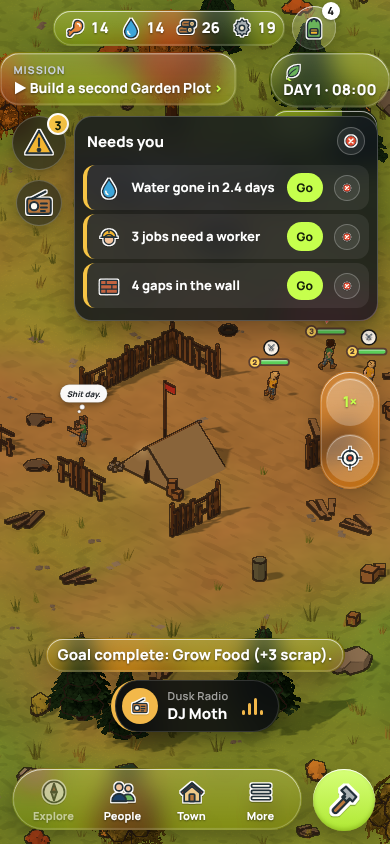
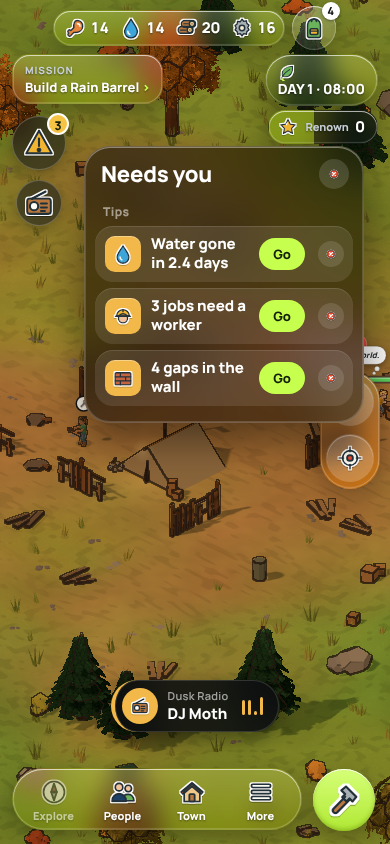
3D.354: phone look, Needs you like the phone's notifications (W270)
Claude-Session: https://claude.ai/code/session_017WFo2g4zbX7WQERKjB1fXN

diff --git a/tools/qa/needs_phone_check.js b/tools/qa/needs_phone_check.js
@@ -1,0 +1,27 @@
+// tools/qa/needs_phone_check.js [tag] — UI chat, 3D.354 (W270, owner: "the warning menu should match the style we are going for with the iphone
+// menu"). In the phone look Needs you is a frosted glass sheet (blur, see-through tint) with a large title, small grey group titles Now and Tips,
+// notification rows 44 px+ inside the screen with a coloured square sign; Go, a row's ✕ and the close still work; the old list with the look off.
+const Q = require('./lib'); const path = require('path'); const out = path.join(__dirname, '../../runs/ui_samples'); const TAG = process.argv[2] || ''; let bad = 0; const ok = (c, m) => { if (!c) { bad++; console.log('  FAIL ' + m); } };
+(async () => { const b = await Q.launch();
+  for (const [n, w, h] of [['phone', 390, 844], ['phoneN', 320, 568], ['phoneL', 430, 932]]) { console.log(n);
+    const p = await Q.page(b, { w, h, look: '', expose: 'alertHub,note,OPTS,Wd,pushUnitsOut' }); await Q.newGame(p);
+    for (let i = 0; i < 6; i++) { await p.evaluate(() => { const x = [...document.querySelectorAll('#eventModal button')].find((b) => /no more tips/i.test(b.textContent)); if (x) x.click(); }); await Q.clearCards(p); await p.waitForTimeout(500); }
+    if (TAG) ok(await p.evaluate(() => ZH.BUILD_TAG) === TAG, 'build tag is ' + TAG);
+    await p.evaluate(() => { const W = ZH.world, S = ZH.S; S.stage = 3; ZH.OPTS.advisor = true; S.advMute = {};
+      for (const t of ['farm', 'barrel']) { const D = ZH.Wd.DEFS[t], B = ZH.Wd.BUILD; outer: for (let y = B.y0; y <= B.y1; y++) for (let x = B.x0; x <= B.x1; x++) if (ZH.Wd.placementCheck(W, x, y, D, null).ok) { const b = { type: t, x, y, w: D.w, h: D.h, q: D.q, a: D.a, staff: null }; W.buildings.push(b); ZH.Wd.bump(W); ZH.pushUnitsOut(b); break outer; } }
+      for (const b of W.buildings) if (ZH.Wd.DEFS[b.type].slot) b.staff = null; for (const q of S.sv) { q.post = null; q.job = 'Guard'; }
+      ZH.note('critical', 'Fire at the Lodge', { key: 'testfire', icon: '🔥', live: () => true, at: () => S.sv[0].w }); });
+    await p.waitForTimeout(1500); await Q.clearCards(p); await p.evaluate(() => { const a = document.getElementById('alertBtn'); if (a && !document.getElementById('alertPop')) a.click(); }); await p.waitForTimeout(700);
+    const m = await p.evaluate(() => { const pop = document.getElementById('alertPop'), cs = getComputedStyle(pop), r = (e) => e.getBoundingClientRect(); return { note: pop.classList.contains('phNote'), blur: cs.backdropFilter || cs.webkitBackdropFilter || '', bg: cs.backgroundColor, title: parseFloat(getComputedStyle(pop.querySelector('.apH b')).fontSize), secs: [...pop.querySelectorAll('.apS')].map((e) => e.textContent),
+      rows: [...pop.querySelectorAll('.apRow')].map((e) => { const q = r(e), i = r(e.querySelector('.apI')); return { t: e.querySelector('.apT').textContent, h: q.height, l: q.left, r: q.right, sign: getComputedStyle(e.querySelector('.apI')).backgroundColor, iw: i.width }; }), W: innerWidth, H: innerHeight, pr: r(pop) }; });
+    console.log('  ', JSON.stringify(m.rows.map((x) => x.t)));
+    ok(m.note && /blur/.test(m.blur), 'a frosted glass sheet'); { const a = (m.bg.match(/[\d.]+/g) || []).map(Number); ok(a.length === 4 && a[3] <= .7, 'see-through tint (' + m.bg + ')'); }
+    ok(m.title >= 20, 'a large title'); ok(m.secs[0] === 'Now' && m.secs.includes('Tips'), 'group titles Now and Tips (' + m.secs + ')');
+    ok(m.rows.length >= 2 && m.rows.every((x) => x.h >= 44 && x.l >= 0 && x.r <= m.W && x.iw >= 30 && !/rgba\(0, 0, 0, 0\)/.test(x.sign)), 'rows 44 px+, on the screen, each with a coloured square sign'); ok(m.pr.bottom <= m.H, 'the sheet is on the screen');
+    await p.screenshot({ path: path.join(out, `needs_phone_${n}.png`) });
+    await p.evaluate(() => { const r = [...document.querySelectorAll('#alertPop .apRow')].find((x) => /jobs need a worker|: no worker/.test(x.textContent)); if (r && r.querySelector('.apM')) r.querySelector('.apM').click(); }); await p.waitForTimeout(500);
+    ok(await p.evaluate(() => !/worker/.test((document.getElementById('alertPop') || {}).textContent || '')), "a row's ✕ hides it");
+    await p.evaluate(() => document.querySelector('#alertPop .apX').click()); await p.waitForTimeout(400); ok(await p.evaluate(() => !document.getElementById('alertPop')), 'the close shuts it');
+    if (n === 'phone') { await p.evaluate(() => { ZH.OPTS.look = 'glass'; document.documentElement.classList.remove('phone'); document.getElementById('alertBtn').click(); }); await p.waitForTimeout(500); ok(await p.evaluate(() => { const q = document.getElementById('alertPop'); return !!q && !q.classList.contains('phNote') && !q.querySelector('.apS'); }), 'look off: the old list'); }
+    ok(!(p.errs || []).length, 'no page errors ' + JSON.stringify(p.errs || [])); await p.close(); }
+  await b.close(); console.log(bad ? `FAILED (${bad})` : 'PASS'); process.exit(bad ? 1 : 0); })();

diff --git a/js/game.js b/js/game.js
@@ -3,7 +3,7 @@
 'use strict';
 const Iso = window.ZHIso, Wd = window.ZHWorld;
 const SFX = (n) => { if (window.SND) SND.play(n); };   /* V2.21 sound (js/sound.js) */
-const VERSION = '2.57.0', BUILD_TAG = '3D.353', PREV_KEY = 'zombieHavenV25', OLD_KEY = 'zombieHavenV2';
+const VERSION = '2.57.0', BUILD_TAG = '3D.354', PREV_KEY = 'zombieHavenV25', OLD_KEY = 'zombieHavenV2';
 /* V2.40 save slots: slot 1 keeps the old key, so existing towns carry over */
 const SLOT_KEYS = ['zombieHavenR1', 'zombieHavenR1_s2', 'zombieHavenR1_s3']   /* V3D.22 resources: fresh saves (old towns are not converted) */, QS = new URLSearchParams(location.search);
 let SLOT = 1; try { SLOT = Math.min(3, Math.max(1, +localStorage.getItem('zhSlot') || 1)); } catch (e) { /* storage blocked */ }
@@ -1447,7 +1447,14 @@ function alertHub() {
   if (!pop) { pop = document.createElement('div'); pop.id = 'alertPop'; pop.className = 'alertPop'; w.appendChild(pop); pop.onclick = (e) => e.stopPropagation(); }
   pop.style.top = (parseInt(b.style.top) || 120) + 'px';
   const sig = L.map((q) => q.key + q.text + q.acts.map((c) => c.label + c.ok).join()).join('|'); if (pop.dataset.sig === sig) return; pop.dataset.sig = sig;
-  pop.innerHTML = `<div class="apH"><b>Needs you</b><button class="apX">${window.ZHIcons ? ZHIcons.svg('cross', 16) : '✕'}</button></div>` + L.map((q, i) => `<div class="apRow${q.urgent ? ' urg' : ''}" data-i="${i}"><span class="apI">${q.icon}</span><span class="apT">${esc(q.text)}</span>${q.acts.map((c, j) => `<button class="apA" data-j="${j}"${c.ok ? '' : ' disabled'}>${esc(c.label)}</button>`).join('')}${q.mute || q.muteAll ? `<button class="apM" title="Hide until tomorrow" aria-label="Hide until tomorrow"><span>${window.ZHIcons ? ZHIcons.svg('cross', 12) : '✕'}</span></button>` : ''}</div>`).join('');
+  /* 3D.354 (owner, 24 Nov, W270: "the warning menu should match the style we are going for with the iphone menu"): in the phone look Needs you is
+     a frosted glass sheet like the phone's notifications: a large title, a small grey close, small grey group titles (Now, Tips), and each row a
+     notification card with a coloured square sign, the short title, a lime Go and a small grey ✕. Same classes and handlers as before. */
+  const cx = window.ZHIcons ? ZHIcons.svg('cross', 12) : '✕', rowH = (q, i) => `<div class="apRow${q.urgent ? ' urg' : ''}" data-i="${i}"><span class="apI">${q.icon}</span><span class="apT">${esc(q.text)}</span>${q.acts.map((c, j) => `<button class="apA" data-j="${j}"${c.ok ? '' : ' disabled'}>${esc(c.label)}</button>`).join('')}${q.mute || q.muteAll ? `<button class="apM" title="Hide until tomorrow" aria-label="Hide until tomorrow"><span>${cx}</span></button>` : ''}</div>`;
+  if (phoneOn()) { const now = L.map((q, i) => [q, i]).filter(([q]) => q.urgent), tips = L.map((q, i) => [q, i]).filter(([q]) => !q.urgent);
+    pop.classList.add('phNote'); pop.innerHTML = `<div class="apH"><b>Needs you</b><button class="apX" aria-label="Close">${cx}</button></div>` + (now.length ? `<div class="apS">Now</div>` + now.map(([q, i]) => rowH(q, i)).join('') : '') + (tips.length ? `<div class="apS">Tips</div>` + tips.map(([q, i]) => rowH(q, i)).join('') : '');
+  } else { pop.classList.remove('phNote');
+  pop.innerHTML = `<div class="apH"><b>Needs you</b><button class="apX">${window.ZHIcons ? ZHIcons.svg('cross', 16) : '✕'}</button></div>` + L.map((q, i) => `<div class="apRow${q.urgent ? ' urg' : ''}" data-i="${i}"><span class="apI">${q.icon}</span><span class="apT">${esc(q.text)}</span>${q.acts.map((c, j) => `<button class="apA" data-j="${j}"${c.ok ? '' : ' disabled'}>${esc(c.label)}</button>`).join('')}${q.mute || q.muteAll ? `<button class="apM" title="Hide until tomorrow" aria-label="Hide until tomorrow"><span>${window.ZHIcons ? ZHIcons.svg('cross', 12) : '✕'}</span></button>` : ''}</div>`).join(''); }
   if (window.ZHIcons && ZHIcons.swap) try { ZHIcons.swap(pop); } catch (e) { /* emoji stay */ }
   pop.querySelector('.apX').onclick = () => { hubOpen = false; alertHub(); };
   pop.querySelectorAll('.apRow').forEach((r) => { const q = L[+r.dataset.i];

diff --git a/src/game/05-alerts.js b/src/game/05-alerts.js
@@ -120,7 +120,14 @@ function alertHub() {
   if (!pop) { pop = document.createElement('div'); pop.id = 'alertPop'; pop.className = 'alertPop'; w.appendChild(pop); pop.onclick = (e) => e.stopPropagation(); }
   pop.style.top = (parseInt(b.style.top) || 120) + 'px';
   const sig = L.map((q) => q.key + q.text + q.acts.map((c) => c.label + c.ok).join()).join('|'); if (pop.dataset.sig === sig) return; pop.dataset.sig = sig;
-  pop.innerHTML = `<div class="apH"><b>Needs you</b><button class="apX">${window.ZHIcons ? ZHIcons.svg('cross', 16) : '✕'}</button></div>` + L.map((q, i) => `<div class="apRow${q.urgent ? ' urg' : ''}" data-i="${i}"><span class="apI">${q.icon}</span><span class="apT">${esc(q.text)}</span>${q.acts.map((c, j) => `<button class="apA" data-j="${j}"${c.ok ? '' : ' disabled'}>${esc(c.label)}</button>`).join('')}${q.mute || q.muteAll ? `<button class="apM" title="Hide until tomorrow" aria-label="Hide until tomorrow"><span>${window.ZHIcons ? ZHIcons.svg('cross', 12) : '✕'}</span></button>` : ''}</div>`).join('');
+  /* 3D.354 (owner, 24 Nov, W270: "the warning menu should match the style we are going for with the iphone menu"): in the phone look Needs you is
+     a frosted glass sheet like the phone's notifications: a large title, a small grey close, small grey group titles (Now, Tips), and each row a
+     notification card with a coloured square sign, the short title, a lime Go and a small grey ✕. Same classes and handlers as before. */
+  const cx = window.ZHIcons ? ZHIcons.svg('cross', 12) : '✕', rowH = (q, i) => `<div class="apRow${q.urgent ? ' urg' : ''}" data-i="${i}"><span class="apI">${q.icon}</span><span class="apT">${esc(q.text)}</span>${q.acts.map((c, j) => `<button class="apA" data-j="${j}"${c.ok ? '' : ' disabled'}>${esc(c.label)}</button>`).join('')}${q.mute || q.muteAll ? `<button class="apM" title="Hide until tomorrow" aria-label="Hide until tomorrow"><span>${cx}</span></button>` : ''}</div>`;
+  if (phoneOn()) { const now = L.map((q, i) => [q, i]).filter(([q]) => q.urgent), tips = L.map((q, i) => [q, i]).filter(([q]) => !q.urgent);
+    pop.classList.add('phNote'); pop.innerHTML = `<div class="apH"><b>Needs you</b><button class="apX" aria-label="Close">${cx}</button></div>` + (now.length ? `<div class="apS">Now</div>` + now.map(([q, i]) => rowH(q, i)).join('') : '') + (tips.length ? `<div class="apS">Tips</div>` + tips.map(([q, i]) => rowH(q, i)).join('') : '');
+  } else { pop.classList.remove('phNote');
+  pop.innerHTML = `<div class="apH"><b>Needs you</b><button class="apX">${window.ZHIcons ? ZHIcons.svg('cross', 16) : '✕'}</button></div>` + L.map((q, i) => `<div class="apRow${q.urgent ? ' urg' : ''}" data-i="${i}"><span class="apI">${q.icon}</span><span class="apT">${esc(q.text)}</span>${q.acts.map((c, j) => `<button class="apA" data-j="${j}"${c.ok ? '' : ' disabled'}>${esc(c.label)}</button>`).join('')}${q.mute || q.muteAll ? `<button class="apM" title="Hide until tomorrow" aria-label="Hide until tomorrow"><span>${window.ZHIcons ? ZHIcons.svg('cross', 12) : '✕'}</span></button>` : ''}</div>`).join(''); }
   if (window.ZHIcons && ZHIcons.swap) try { ZHIcons.swap(pop); } catch (e) { /* emoji stay */ }
   pop.querySelector('.apX').onclick = () => { hubOpen = false; alertHub(); };
   pop.querySelectorAll('.apRow').forEach((r) => { const q = L[+r.dataset.i];

diff --git a/css/phone.css b/css/phone.css
@@ -167,3 +167,14 @@ html.phone .radioBtn.unread::after { content: ''; position: absolute; right: 3px
 html.phone #nBot .radioCard.rcLive { width: auto; max-width: 260px; align-self: center; margin: 0 auto; padding: 6px 16px 6px 7px; } html.phone #nBot .radioCard.rcLive .rcT { flex: 0 1 auto; padding-left: 0; } html.phone #nBot .radioCard.rcLive .rcT b { display: block; max-height: none; }
 html.phone .radioCard.rcLive.talk .rcT b::after { display: none; } html.phone .radioCard.rcLive .rcT small { margin-bottom: 0; color: rgba(255, 255, 255, .6); }
 html.phone #nBot .radioCard.rcLive { min-height: 52px; }   /* the bottom stack is drawn smaller on a 320-wide phone: 52 stays 44+ there */
+/* 3D.354: Needs you like the phone's notifications */
+html.phone .alertPop.phNote { left: 70px; right: 12px; padding: 12px 10px 10px; border-radius: 26px; background: rgba(16, 18, 20, .58); backdrop-filter: blur(26px) saturate(1.4); -webkit-backdrop-filter: blur(26px) saturate(1.4); box-shadow: inset 0 0 0 1px rgba(255, 255, 255, .16), inset 0 1px 0 rgba(255, 255, 255, .28), 0 18px 40px rgba(0, 0, 0, .45); font-family: Manrope, system-ui, sans-serif; }
+html.phone .phNote .apH { padding: 0 4px 4px 6px; } html.phone .phNote .apH b { font: 800 22px Manrope, system-ui, sans-serif; color: #fff; letter-spacing: -.2px; }
+html.phone .phNote .apX { width: 30px; height: 30px; border: 0; background: rgba(255, 255, 255, .14); color: rgba(255, 255, 255, .75); } html.phone .phNote .apX svg { width: 12px; height: 12px; }
+html.phone .phNote .apS { margin: 10px 8px 6px; font: 700 12px Manrope, system-ui, sans-serif; letter-spacing: .4px; color: rgba(255, 255, 255, .52); }
+html.phone .phNote .apRow { min-height: 56px; gap: 10px; margin: 0 0 6px; padding: 8px 8px 8px 10px; border: 0; border-radius: 18px; background: rgba(255, 255, 255, .1); box-shadow: inset 0 1px 0 rgba(255, 255, 255, .12); font: 700 15px Manrope, system-ui, sans-serif; color: #fff; }
+html.phone .phNote .apRow.urg { background: rgba(255, 255, 255, .1); } html.phone .phNote .apT { line-height: 1.25; }
+html.phone .phNote .apI { width: 36px; height: 36px; border-radius: 10px; display: grid; place-items: center; background: #f2b84a; font-size: 20px; box-shadow: inset 0 1px 0 rgba(255, 255, 255, .35); } html.phone .phNote .urg .apI { background: #ff6b5e; }
+html.phone .phNote .apI svg, html.phone .phNote .apI img { width: 24px; height: 24px; }
+html.phone .phNote .apA { padding: 7px 14px; font-size: 13px; } html.phone .phNote .apM span { width: 26px; height: 26px; border: 0; background: rgba(255, 255, 255, .12); color: rgba(255, 255, 255, .65); }
+html.phone .alertPop.phNote { margin-top: 30px; }   /* clear of the Renown chip on the right */

diff --git a/src/game/01-core.js b/src/game/01-core.js
@@ -3,7 +3,7 @@
 'use strict';
 const Iso = window.ZHIso, Wd = window.ZHWorld;
 const SFX = (n) => { if (window.SND) SND.play(n); };   /* V2.21 sound (js/sound.js) */
-const VERSION = '2.57.0', BUILD_TAG = '3D.353', PREV_KEY = 'zombieHavenV25', OLD_KEY = 'zombieHavenV2';
+const VERSION = '2.57.0', BUILD_TAG = '3D.354', PREV_KEY = 'zombieHavenV25', OLD_KEY = 'zombieHavenV2';
 /* V2.40 save slots: slot 1 keeps the old key, so existing towns carry over */
 const SLOT_KEYS = ['zombieHavenR1', 'zombieHavenR1_s2', 'zombieHavenR1_s3']   /* V3D.22 resources: fresh saves (old towns are not converted) */, QS = new URLSearchParams(location.search);
 let SLOT = 1; try { SLOT = Math.min(3, Math.max(1, +localStorage.getItem('zhSlot') || 1)); } catch (e) { /* storage blocked */ }

diff --git a/docs/project/05-NOW.md b/docs/project/05-NOW.md
@@ -104,7 +104,7 @@ UI chat:
 - W164. Play 3D.240: tap a car wreck with zombies near it: the Car alarm card has a ✕ in its top corner that closes it without doing anything. Right? (The wreck looking like a rock is logged for the Art chat, U44.)
 - W189. Bug A13 (3D.250): open the game (best on the phone, after closing it): a loading screen with a bar shows until the world is drawn, and the clock and people only start moving after it goes. Right? Is the screen's look OK?
 - ~~W202. UI audit: fix the small tap areas?~~ Owner, 21 Nov: "YES FIX all". Built in 3D.268 (U46 to U51).
-- W270. **Less reading, a session for the whole game** (owner, 24 Nov, 17:05, on the Upgrade screen: "there are way too much reading on the screen. Please keep that in mind. We will need to do a session to try to make the game with less reading"). Rule added to `04-UI.md`, section B: every new screen says as little as it can (a word or a number before a sentence, a picture or a bar before a word, hints only where a first-time player would be stuck). The session itself, in the UI chat: count the words on every screen and card, then cut screen by screen, each shown as a before-and-after picture first. Owner, 24 Nov, 17:20: **"Start now and we will come back to those previous screen. It's not necessary the number of work. But lots of reading all over the place will not be helping to keep the attention of the players"**: the session is on, before the phone look's remaining screens. **Started the same evening:** `tools/qa/reading_audit.js` opens 21 screens on a 390x844 phone and counts, as first seen, the places with words, the sentences (6 words or more) and the words; each picture marks sentences in orange (`runs/reading_audit/sheet.png`, `report.md`). Most reading: the Event log (10 sentences), Needs you (7: the same advice once per building), Events and the item page (6 each: the jokes), People (6: a sentence under every name), Explore (4), Town · Defense (3: the explosives paragraph). Mockups on the real game, nothing changed in the game (`tools/qa/less_reading_mock.js`, `runs/reading_audit/less_reading_mock.png`): playing (no words drawn over the town, the radio waits behind its button with a dot), Needs you (the same advice once with a count, titles of a few words), People (one line per person: the group already says what they do), Town · Defense (the paragraph becomes a "How it works" row), Events (no jokes in the list). Six rules proposed: (1) no words drawn over the town, numbers and ticks only; (2) one line per row, a second only when something is wrong; (3) the same warning once, with a count; (4) titles of two to four words, details on a tap; (5) jokes and how-it-works on the thing's own page or behind "How it works", never in lists; (6) sentences only on tip cards and in the story, tip cards one line. Owner, 24 Nov, 18:16: **"Yes that's ok. But you should still see the character dialogue on play screen"** and **"Yes on the radio. It will show up like an iPhone radio"**: the six rules are decided (`04-UI.md`, B), survivors' speech stays on the play screen, the radio becomes a "now playing" capsule. **Built and waiting** (local branches, not pushed; picture `runs/ui_samples/phoneR_less_reading_play.png`): **3D.349 floating notes as numbers and signs** (`fewWords()` in `src/game/02-draw.js`: "COMBO!" ⚡⚡, "OUT OF AMMO!" 🔫 0, "Wood full" 🪵 MAX, "No 💧" ✕ 💧, "REPAIRED" and "DONE!" ✓, an upgrade ⬆, "🩹 Rosa is in care" 🩹 ✓; numbers, pictures and short terms like STR stay; speech bubbles untouched; check `tools/qa/few_words_check.js`); **3D.350 the radio as a now-playing capsule** (`radioLive()` in `src/game/04-helpers.js`: a small dark capsule over the tab bar with the station, the speaker and moving bars, no words; it goes after a few seconds and leaves a lime dot on the radio button; a tap on either opens the words, with Show me where there is a place; messages still wait while a menu or card is open and ordinary chatter still waits out a fight; check `tools/qa/radio_live_check.js`). Both checks and the test suite pass. Owner, 24 Nov, 19:04: **"Don't do build 1. I like the combo and letter for those. The radio build is ok"**: the signs build is dropped (rule 1 is dropped: the notes over the town keep their words; `04-UI.md`); **3D.349 (live, version 314): the radio as "now playing"**. Next in the session: Needs you (the same warning once with a count, short titles), shown first. Owner, 24 Nov, 20:24: **"Next"**. **Needs you, built and waiting** (local branch `needs-short-wip`, would be 3D.350, not pushed; picture `runs/ui_samples/phoneS_needs_short.png`; check `tools/qa/needs_short_check.js` passes on two phone sizes and the test suite passes but for the known `expchoices` flake): workplaces with no worker are one row, "3 jobs need a worker", whose Go opens Workplaces and whose ✕ hides them all for the day; rows that read the same are one row with ×n; titles short ("Ready to level up", "Water gone in 5 h", "4 gaps in the wall", "No backup this week", "Marcus fled the Camp", "Out of water", "Horde of 40 at the walls"); the numbers that matter stay ("Marcus down · 42 s left", "Wall breached · 3 zombies"); other long titles lose their explanation after " · ", " (" or ": ". Phone look only. Owner, 24 Nov, 21:05: **"W270 yes. but the warning menu should match the style we are going for with the iphone menu"**. **3D.350 (live, version 315): Needs you shorter.** Next: the Needs you list in the phone look (like the phone's notifications), built on Claude's side and shown first. **Built and waiting** (local branch `needs-phone-wip`, would be 3D.352 (the Features chat took 3D.351), not pushed; picture `runs/ui_samples/phoneT_needs_phone.png`; check `tools/qa/needs_phone_check.js` passes on three phone sizes and the test suite passes): Needs you as a frosted glass sheet like the phone's notifications: "Needs you" large, a small grey close, small grey group titles **Now** (emergencies) and **Tips**, each row a rounded notification card with a coloured square sign (coral for emergencies, amber for tips), the short title, a lime Go and a small grey ✕; it sits below the Renown chip. Waiting: yes to push.
+- W270. **Less reading, a session for the whole game** (owner, 24 Nov, 17:05, on the Upgrade screen: "there are way too much reading on the screen. Please keep that in mind. We will need to do a session to try to make the game with less reading"). Rule added to `04-UI.md`, section B: every new screen says as little as it can (a word or a number before a sentence, a picture or a bar before a word, hints only where a first-time player would be stuck). The session itself, in the UI chat: count the words on every screen and card, then cut screen by screen, each shown as a before-and-after picture first. Owner, 24 Nov, 17:20: **"Start now and we will come back to those previous screen. It's not necessary the number of work. But lots of reading all over the place will not be helping to keep the attention of the players"**: the session is on, before the phone look's remaining screens. **Started the same evening:** `tools/qa/reading_audit.js` opens 21 screens on a 390x844 phone and counts, as first seen, the places with words, the sentences (6 words or more) and the words; each picture marks sentences in orange (`runs/reading_audit/sheet.png`, `report.md`). Most reading: the Event log (10 sentences), Needs you (7: the same advice once per building), Events and the item page (6 each: the jokes), People (6: a sentence under every name), Explore (4), Town · Defense (3: the explosives paragraph). Mockups on the real game, nothing changed in the game (`tools/qa/less_reading_mock.js`, `runs/reading_audit/less_reading_mock.png`): playing (no words drawn over the town, the radio waits behind its button with a dot), Needs you (the same advice once with a count, titles of a few words), People (one line per person: the group already says what they do), Town · Defense (the paragraph becomes a "How it works" row), Events (no jokes in the list). Six rules proposed: (1) no words drawn over the town, numbers and ticks only; (2) one line per row, a second only when something is wrong; (3) the same warning once, with a count; (4) titles of two to four words, details on a tap; (5) jokes and how-it-works on the thing's own page or behind "How it works", never in lists; (6) sentences only on tip cards and in the story, tip cards one line. Owner, 24 Nov, 18:16: **"Yes that's ok. But you should still see the character dialogue on play screen"** and **"Yes on the radio. It will show up like an iPhone radio"**: the six rules are decided (`04-UI.md`, B), survivors' speech stays on the play screen, the radio becomes a "now playing" capsule. **Built and waiting** (local branches, not pushed; picture `runs/ui_samples/phoneR_less_reading_play.png`): **3D.349 floating notes as numbers and signs** (`fewWords()` in `src/game/02-draw.js`: "COMBO!" ⚡⚡, "OUT OF AMMO!" 🔫 0, "Wood full" 🪵 MAX, "No 💧" ✕ 💧, "REPAIRED" and "DONE!" ✓, an upgrade ⬆, "🩹 Rosa is in care" 🩹 ✓; numbers, pictures and short terms like STR stay; speech bubbles untouched; check `tools/qa/few_words_check.js`); **3D.350 the radio as a now-playing capsule** (`radioLive()` in `src/game/04-helpers.js`: a small dark capsule over the tab bar with the station, the speaker and moving bars, no words; it goes after a few seconds and leaves a lime dot on the radio button; a tap on either opens the words, with Show me where there is a place; messages still wait while a menu or card is open and ordinary chatter still waits out a fight; check `tools/qa/radio_live_check.js`). Both checks and the test suite pass. Owner, 24 Nov, 19:04: **"Don't do build 1. I like the combo and letter for those. The radio build is ok"**: the signs build is dropped (rule 1 is dropped: the notes over the town keep their words; `04-UI.md`); **3D.349 (live, version 314): the radio as "now playing"**. Next in the session: Needs you (the same warning once with a count, short titles), shown first. Owner, 24 Nov, 20:24: **"Next"**. **Needs you, built and waiting** (local branch `needs-short-wip`, would be 3D.350, not pushed; picture `runs/ui_samples/phoneS_needs_short.png`; check `tools/qa/needs_short_check.js` passes on two phone sizes and the test suite passes but for the known `expchoices` flake): workplaces with no worker are one row, "3 jobs need a worker", whose Go opens Workplaces and whose ✕ hides them all for the day; rows that read the same are one row with ×n; titles short ("Ready to level up", "Water gone in 5 h", "4 gaps in the wall", "No backup this week", "Marcus fled the Camp", "Out of water", "Horde of 40 at the walls"); the numbers that matter stay ("Marcus down · 42 s left", "Wall breached · 3 zombies"); other long titles lose their explanation after " · ", " (" or ": ". Phone look only. Owner, 24 Nov, 21:05: **"W270 yes. but the warning menu should match the style we are going for with the iphone menu"**. **3D.350 (live, version 315): Needs you shorter.** Next: the Needs you list in the phone look (like the phone's notifications), built on Claude's side and shown first. **Built and waiting** (local branch `needs-phone-wip`, would be 3D.352 (the Features chat took 3D.351; it became 3D.354), not pushed; picture `runs/ui_samples/phoneT_needs_phone.png`; check `tools/qa/needs_phone_check.js` passes on three phone sizes and the test suite passes): Needs you as a frosted glass sheet like the phone's notifications: "Needs you" large, a small grey close, small grey group titles **Now** (emergencies) and **Tips**, each row a rounded notification card with a coloured square sign (coral for emergencies, amber for tips), the short title, a lime Go and a small grey ✕; it sits below the Renown chip. Owner, 24 Nov, 21:24: **"W270 yes push it"**, **"W249 do next screen"**. **3D.354 (live, version 317): Needs you like the phone's notifications** (the Music chat took 3D.352 and 3D.353). Next for W249: Jobs, built on Claude's side and shown first, saying as little as it can.
 - W205. Play 3D.268 on the phone: the Renown chip, the Needs you ✕ and Go, the Settings switches (and tapping a setting's words), a survivor's "→ the Camp ›", Gather switch and stat boxes, the People filters, and the move-in card's buttons should all be easy to hit. Right? (The stat and need boxes on a survivor's Status are a little taller.)
 - W80. Play 3D.195 or later and say whether the open menus look right. The menus are Build, People, Town and a survivor's details (tap a person). With one open: no round radio button on the right, the alert button gone where the menu covers it, and "Paused" centred on the menu's top edge. (Owner, 19 Nov, asked which menus: explained.)
 - ~~W208.~~ Owner, 23 Nov: "yes good". Play 3D.272 (live, version 298): (1) the Renown chip has no ring or oval round it (3D.270); (2) start placing a building while a trip is out: the trip timer steps aside and comes back when you place or cancel (3D.271); (3) a newcomer at the gate: the card sits in the middle with the shade round it, like a tip card, and the bottom bar is free (3D.272; the camera still centres on the newcomer, so he stands behind the card). Right?

diff --git a/docs/project/18-PHONE-LOOK.md b/docs/project/18-PHONE-LOOK.md
@@ -119,6 +119,7 @@ Owner, 23 Nov, 19:43: **"show me mock up before all push"**. Each remaining scre
 | 3D.346 | **The Upgrade screen** (owner, 24 Nov, 17:05: "That's good", with "way too much reading on the screen", W270): Upgrade / Events as a segmented control; a level card (the town's name, Level N large, the era, a row of level steps lit up to the current level); Banners; To reach level N as rows with sign, name, hint, "have of need" (orange when short) and a round tick or cross; Level N brings; one wide Start button pinned to the bottom (solid grey until every row is done); while upgrading a bar with the time left, 2 h sooner and Finish now; Events as one list with the cost on each button. Phone branch in `showUpgrade()` (`src/game/14-missions-events.js`), same ids | `node tools/qa/phone_upgrade_check.js` (three sizes: the segmented control, the level card and one lit step per level, a tick or cross per condition, the wide Start button, the upgrading bar with no percentage, Finish now finishes, Events holds one event and greys the rest for the day, rows and buttons 44 px+ inside the sheet, the old screen with the look off) | **live** |
 | 3D.349 | **The radio as "now playing"** (W270, owner, 24 Nov: "It will show up like an iPhone radio", then "The radio build is ok"): a message shows as a small dark capsule over the tab bar (station, speaker, moving bars, no words), goes after a few seconds (4 to 12, by length) and leaves a lime dot on the radio button; a tap on the capsule or the button opens the words (Show me where there is a place) and clears the dot. Messages still wait while a menu or card is open, ordinary chatter still waits out a fight. `radioLive()`, `radioOpen()` in `src/game/04-helpers.js`. Replaces W126's card that stayed until tapped away | `node tools/qa/radio_live_check.js` (two sizes: a capsule with who is on air and none of the words, 44 px+, not full width; it goes by itself and leaves the dot; the button and the capsule open the words; waits while a menu is open; the old typing card with the look off) | **live** |
 | 3D.350 | **Needs you, shorter** (W270, owner: "W270 yes"): workplaces with no worker are one row with a count (Go opens Workplaces, ✕ hides them all for the day); rows that read the same are one row with ×n; short titles; bleed-out seconds and the zombies at a breach kept. `hubShort()`, `hubShortText()` in `src/game/05-alerts.js` | `node tools/qa/needs_short_check.js` (two sizes: 16 titles shortened as listed, one worker row, Go opens Workplaces, ✕ hides all, no row over 6 words, the old list with the look off) | **live** |
+| 3D.354 | **Needs you like the phone's notifications** (W270, owner: "the warning menu should match the style we are going for with the iphone menu", then "yes push it"): a frosted glass sheet, "Needs you" large, a small grey close, small grey group titles Now (emergencies) and Tips, each row a rounded card with a coloured square sign (coral, amber), the short title, a lime Go and a small grey ✕; it sits below the Renown chip. Phone branch in `alertHub()` (`src/game/05-alerts.js`), same classes | `node tools/qa/needs_phone_check.js` (three sizes: frosted and see-through, a large title, Now and Tips, rows 44 px+ with a coloured sign on the screen, ✕ hides a row, close shuts it, the old list with the look off) | **live** |
 
 Not in 3D.317, each its own build: the live pill (the most urgent thing, under the resource bar), the weather in the clock. Next: step 2, one sheet for every menu.
 

diff --git a/docs/project/00-START-HERE.md b/docs/project/00-START-HERE.md
@@ -30,8 +30,8 @@ The same pages are kept in the repo under `docs/project/`, so they can be copied
 The older docs under `claude/` are an archive in the **Game Development** project (they are not in the repo). Their decisions are already merged into `02-DECISIONS.md`; open the archive only for detail such as exact numbers of an old build.
 
 ## Where things are
-- Repo `sfwong629-droid/Zombie-haven`, branch **art-direction-b** (never push to main). Build **3D.353** (the Music chat's sound effects, group 1). **Published 24 Nov:** version 316, everything up to 3D.353 is live, including the Features chat's 3D.351 (W269 step 1, walls on the lines, switched off in towns until step 4). 3D.352 is the UI chat's reserved number (W270), not pushed. The Features chat's open items are W229 and W244 (W227: the owner saw healing work); the next free W number is W272 (take it from the highest number in `05-NOW.md`).
-- Live game: https://claude.ai/artifact/PidbC3srwbxmFqhfPkqJmn (version 316 = 3D.353, page cache tag v=3d.353; the page now also serves `css/phone.css`, which the game loads itself). Never republish the direction-A artifact F8sGocbQgVJxj4ed2fLdzu.
+- Repo `sfwong629-droid/Zombie-haven`, branch **art-direction-b** (never push to main). Build **3D.354** (the UI chat's Needs you in the phone style, W270). **Published 24 Nov:** version 317, everything up to 3D.354 is live, including the Music chat's 3D.353 (sound effects, group 1) and the Features chat's 3D.351 (W269 step 1, walls on the lines, switched off in towns until step 4). 3D.352 was never used. The Features chat's open items are W229 and W244 (W227: the owner saw healing work); the next free W number is W272 (take it from the highest number in `05-NOW.md`).
+- Live game: https://claude.ai/artifact/PidbC3srwbxmFqhfPkqJmn (version 317 = 3D.354, page cache tag v=3d.354; the page now also serves `css/phone.css`, which the game loads itself). Never republish the direction-A artifact F8sGocbQgVJxj4ed2fLdzu.
 - Game code: `js/game.js` is kept as 27 area files in `src/game/` (guide: `src/game/README.md`). Edit the area file, run `python3 tools/build/game.py` to join them into `js/game.js`, and commit both. If you edited `js/game.js` directly, run `python3 tools/build/game.py --split` instead. The test suite fails (`parts`) when the two differ. `js/game.js` is still the file that is published.
 - Publishing: full slug `b7f9181b-346a-4ccb-85be-5f1f659593f9`; take the *published* index.html, bump v=3d.N, publish only changed js/css. Never use the repo's index.html. Another chat may have published since: always read the live version first.
 - ChatGPT: project "Zombie Haven testing" in the owner's ChatGPT; details in `claude/zombie-haven-chatgpt-testing.md`.

diff --git a/tools/README.md b/tools/README.md
@@ -57,6 +57,7 @@ Serve the game while testing: `python3 -m http.server 8765` from the repo root (
 | `node tools/qa/less_reading_mock.js [outDir]` | W270 mockups: before / after pictures of five screens with less reading, made by changing the page for the picture only (the game is not changed), each measured like `reading_audit.js`. |
 | `node tools/qa/radio_live_check.js [tag]` | 3D.349 (W270) check: the radio as a "now playing" capsule in the phone look: no words in it, 44 px+, it goes by itself and leaves a dot on the radio button, a tap on either opens the words, it waits while a menu is open, the old card with the look off. |
 | `node tools/qa/needs_short_check.js [tag]` | 3D.350 (W270) check: the Needs you list in the phone look: short titles, workplaces with no worker as one row with a count, Go opens Workplaces, its ✕ hides them all, no row over 6 words, the old list with the look off. |
+| `node tools/qa/needs_phone_check.js [tag]` | 3D.354 (W270) check: Needs you in the phone look as a frosted notification sheet: a large title, Now and Tips, rows 44 px+ with a coloured square sign, ✕ and close work, the old list with the look off. |
 | `node tools/qa/trip_place_check.js` | 3D.271 (owner, 21 Nov: the trip timer overlapped the Build bar) check: with a squad out, the trip bar and its small timer are hidden while a building is being placed and come back after Cancel. Fails on 3D.270. |
 | `node tools/qa/newcomer_card_check.js` | 3D.272 (owner, 21 Nov) check: a newcomer's "wants in" card sits in the middle of the screen with the shade round it, clear of the bottom bar, on a 390x844 and a 320x568 phone; Turn away still closes it. Fails on 3D.271. |
 | `node tools/qa/inventory_check.js [sizes] [tag]` | 3D.227 (U42, W131) check: at six phone sizes the backpack on the resource bar opens the Inventory on Gear (tabs Gear and Supplies); six boxes to a row (3D.231), empty slots after the items, every item with a picture, 44 px filters, Weapons shows only weapons; an item's page has the big still picture (no turn controls, 3D.232), the joke, Give to with one lime Give at most and only for a gain; giving moves the item to the survivor; Supplies lists the eight resources. |
